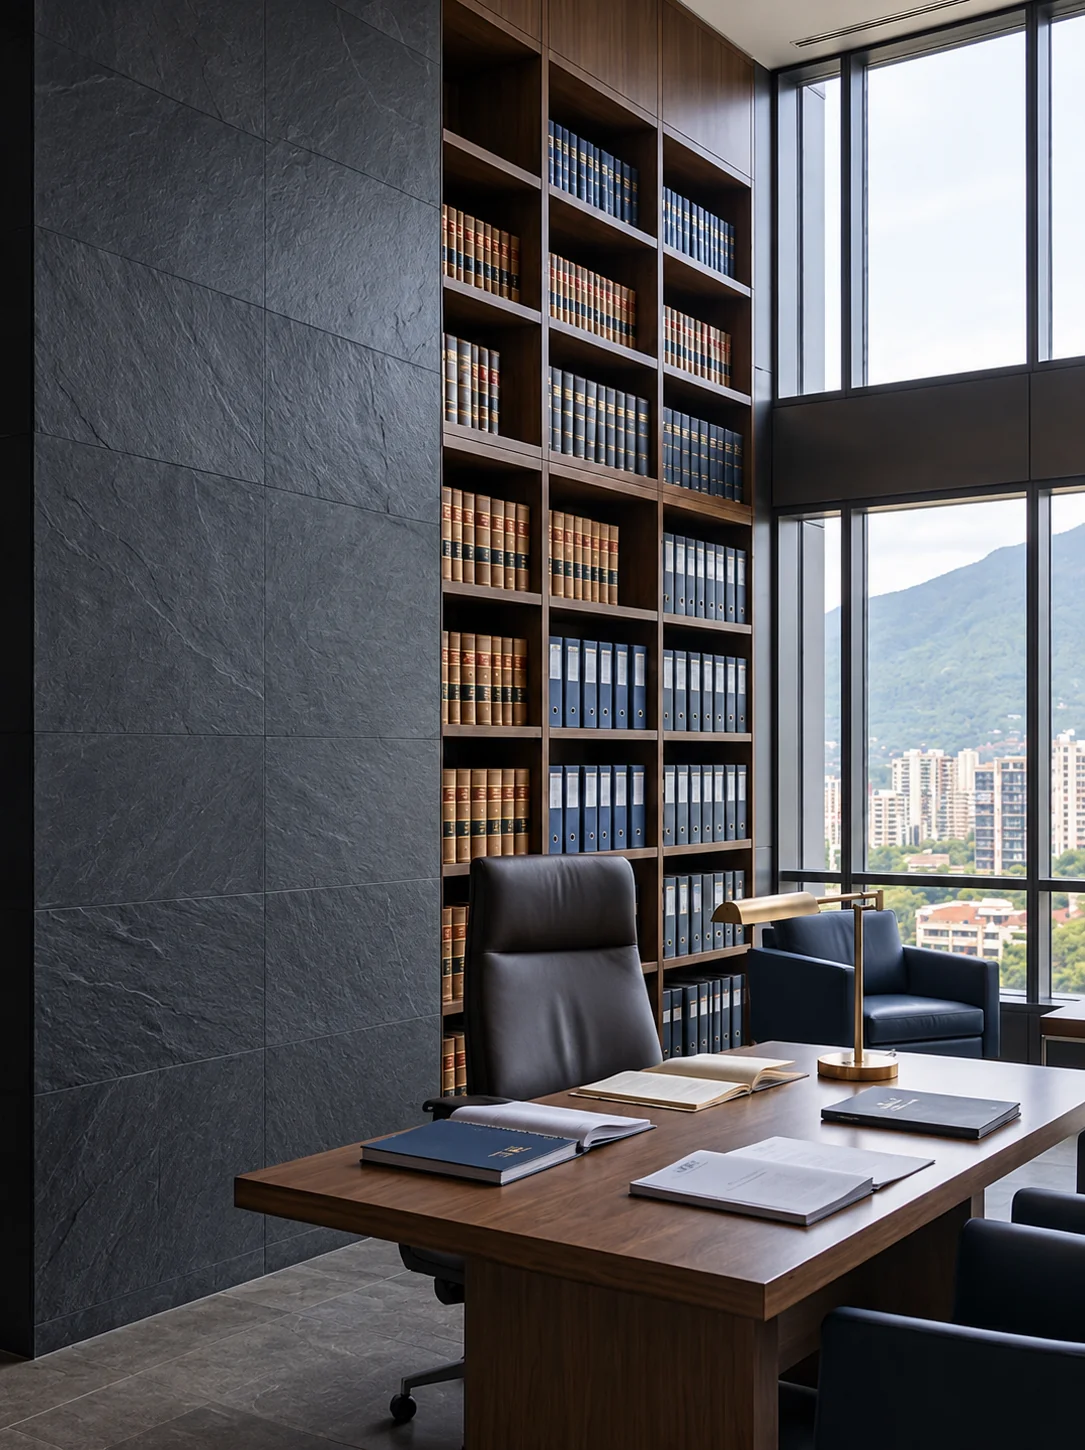
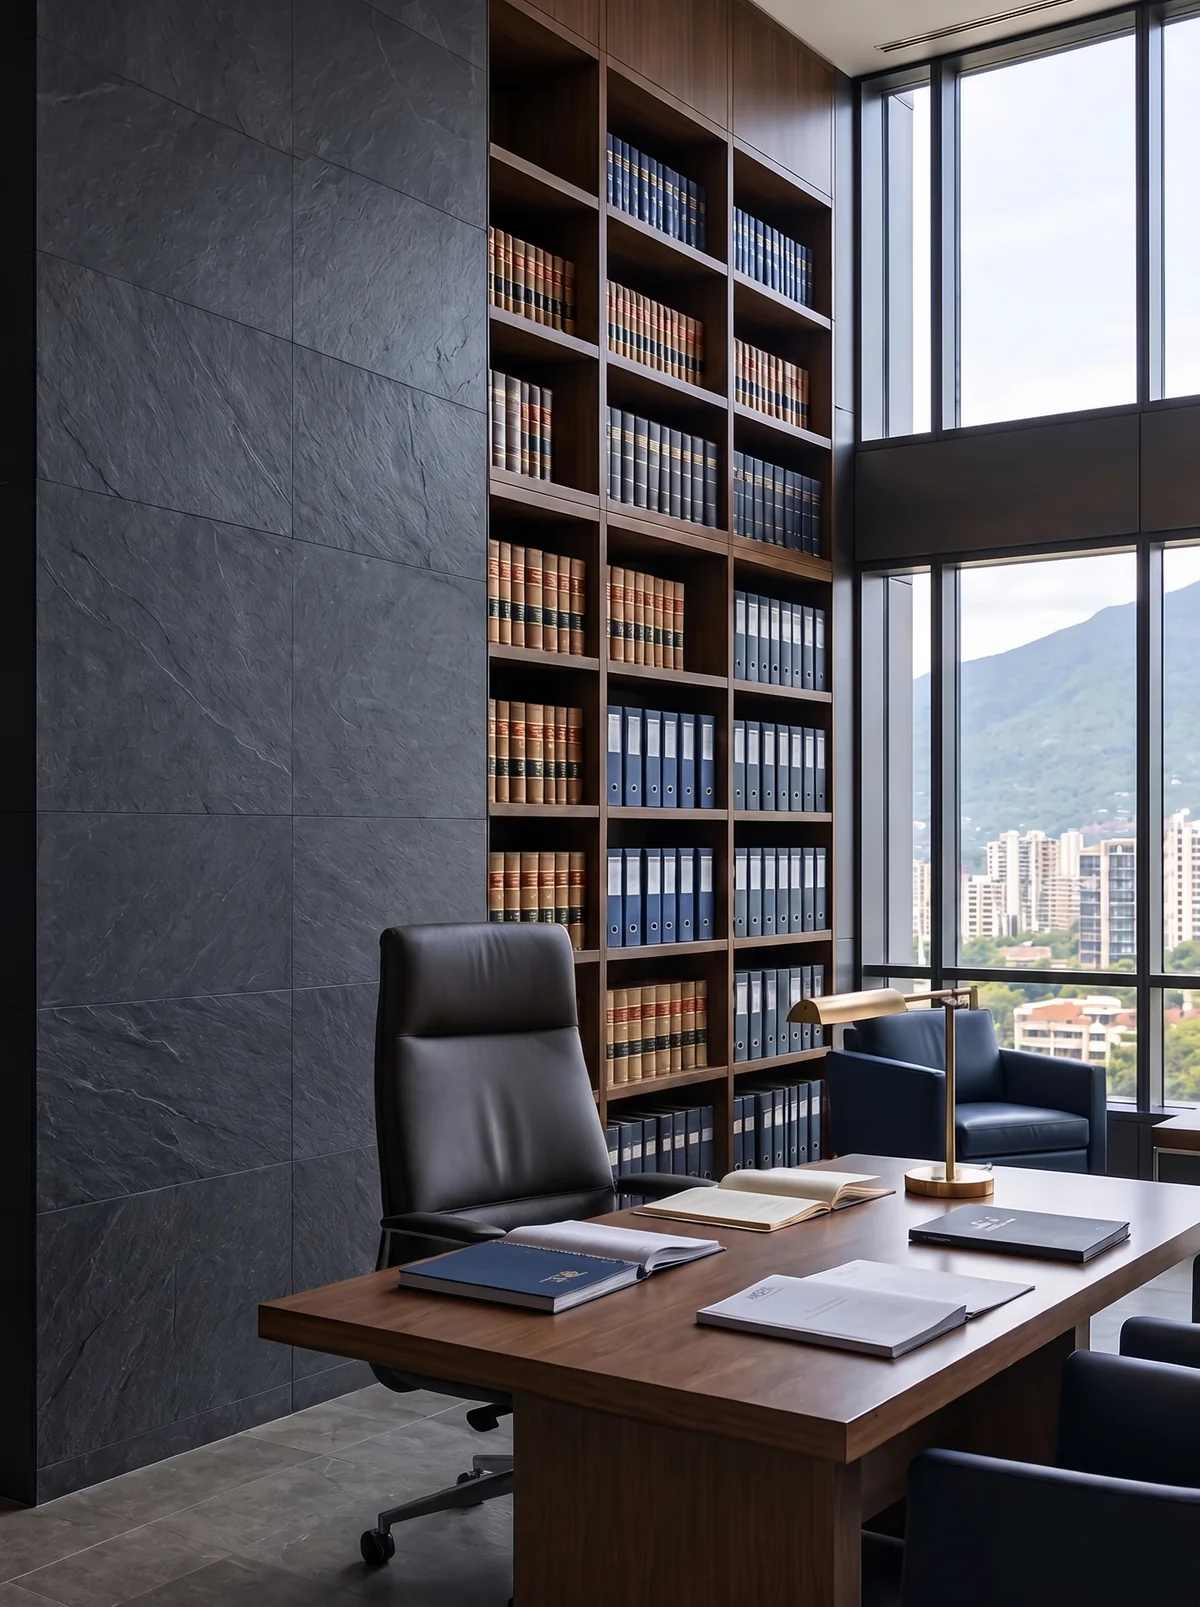
fix(about): sustituir imagen institucional de la sección Firma por versión optimizada de FIRMA.jpg

diff --git a/src/app/[locale]/about/page.tsx b/src/app/[locale]/about/page.tsx
@@ -85,12 +85,15 @@ export default async function QuienesSomos({ params }: { params: Promise<{ local
             
             <div className="img-reveal firm-institutional-image">
               <picture>
-                <source srcSet="/assets/img-webp/firma-actual-opt.webp" type="image/webp" />
+                <source
+                  srcSet="/assets/img-webp/firma-actual-opt.webp"
+                  type="image/webp"
+                />
                 <img
-                  src="/assets/img/FIRMA.png"
+                  src="/assets/img/FIRMA.jpeg"
                   alt={d.history?.alt_firm || "Despacho principal y biblioteca jurídica de Mac Consultores Jurídicos & Asociados."}
-                  width={1085}
-                  height={1450}
+                  width={1200}
+                  height={1607}
                   fetchPriority="high"
                 />
               </picture>
